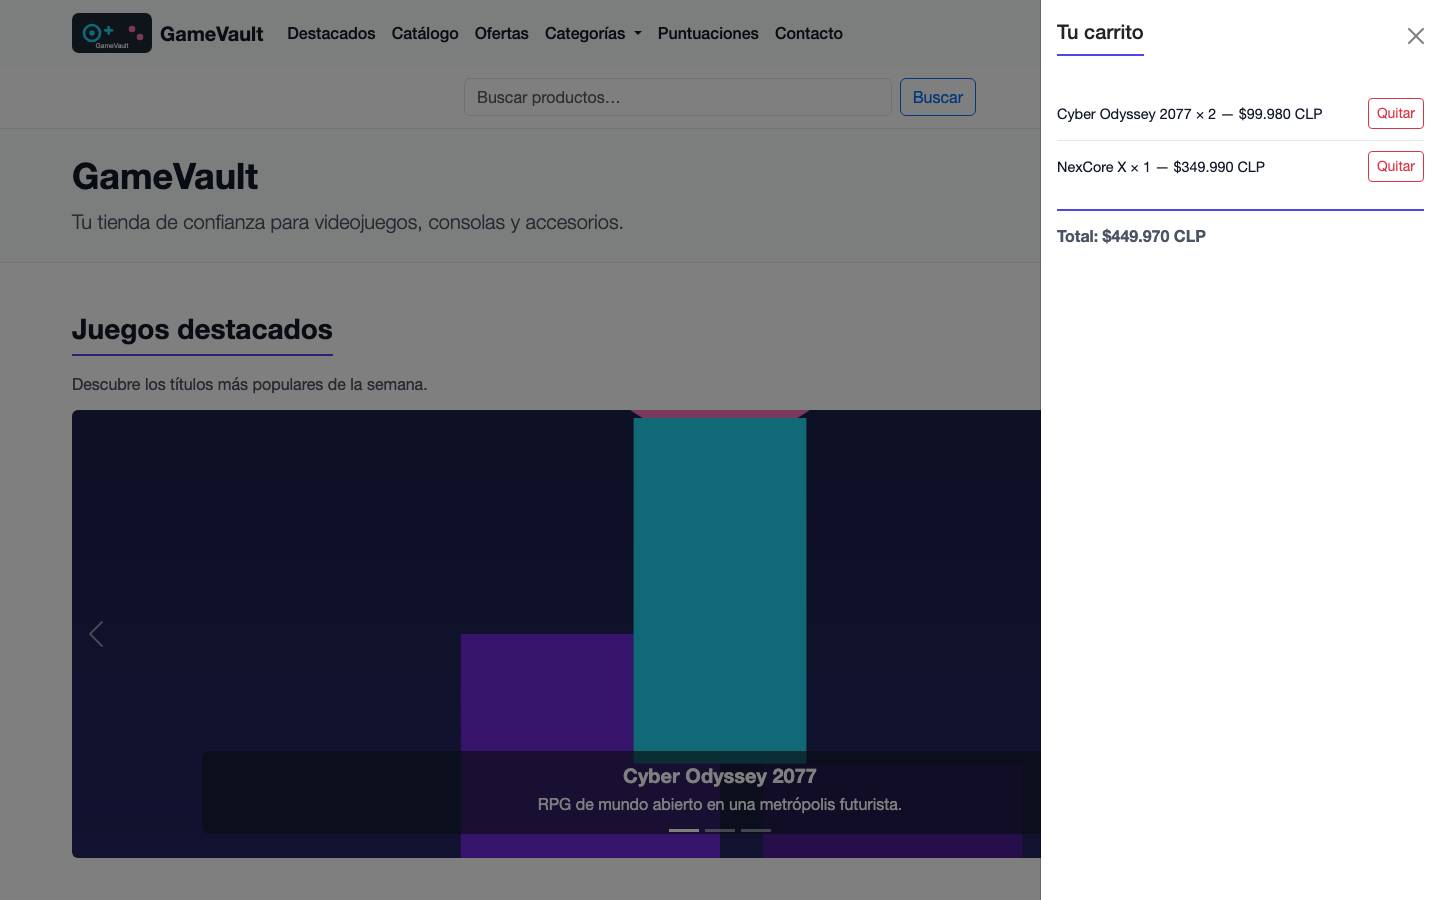
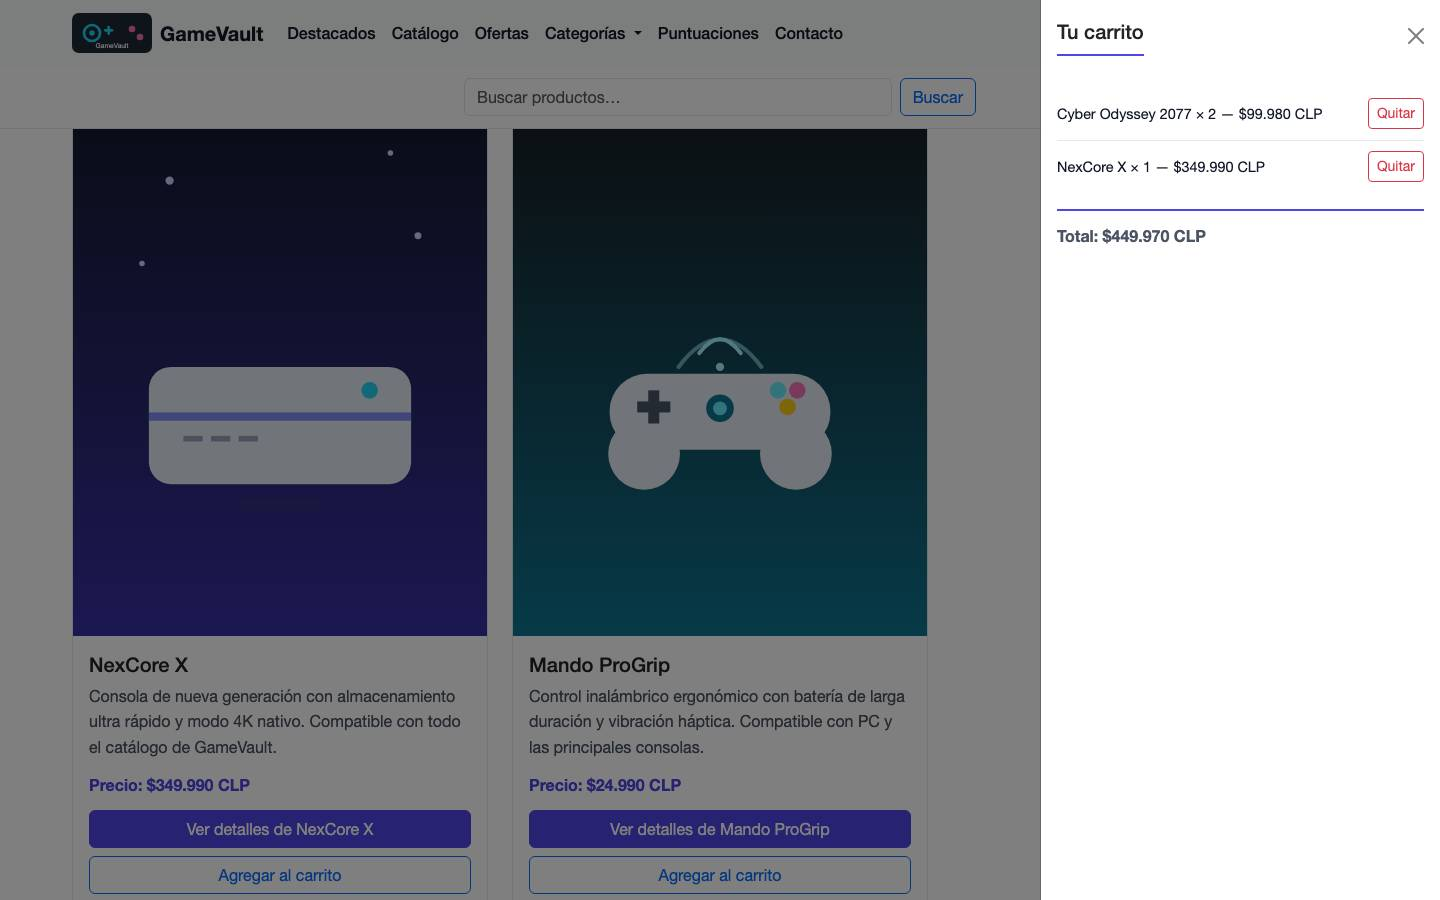
feat: sticky header and search bar

diff --git a/index.html b/index.html
@@ -138,11 +138,14 @@
       </div>
     </div>
 
+  </header>
+
+  <section class="site-intro" aria-labelledby="site-title">
     <div class="container py-4">
-      <h1 class="mb-2">GameVault</h1>
+      <h1 id="site-title" class="mb-2">GameVault</h1>
       <p class="lead mb-0">Tu tienda de confianza para videojuegos, consolas y accesorios.</p>
     </div>
-  </header>
+  </section>
 
   <!-- =========================================================
        Carrito de compras (Bootstrap Offcanvas)

diff --git a/css/navbar.css b/css/navbar.css
@@ -2,6 +2,13 @@
 /* -------------------- 4. Navbar Bootstrap (overrides) -------------------- */
 /* Personaliza la navbar de Bootstrap con la paleta GameVault */
 .site-header {
+  position: sticky;
+  top: 0;
+  z-index: var(--bs-sticky-zindex, 1020);
+  background-color: var(--color-bg-alt);
+}
+
+.site-intro {
   background-color: var(--color-bg-alt);
   border-bottom: 1px solid var(--color-border);
 }
